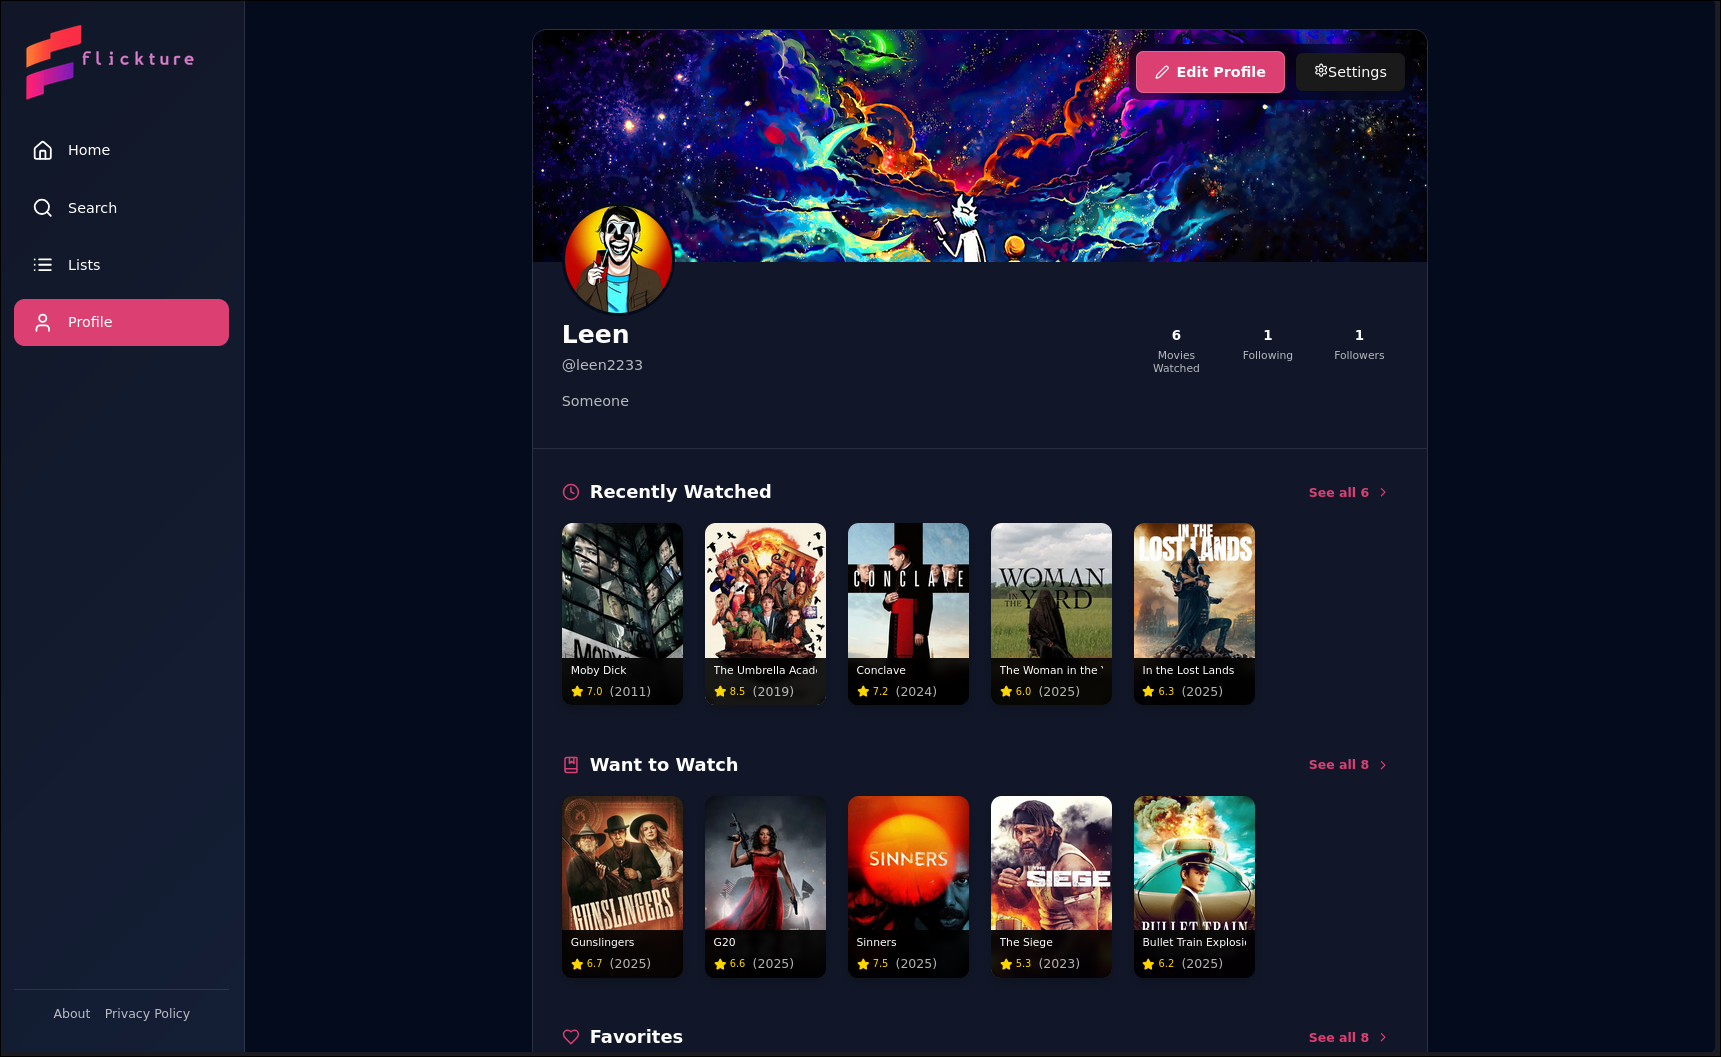
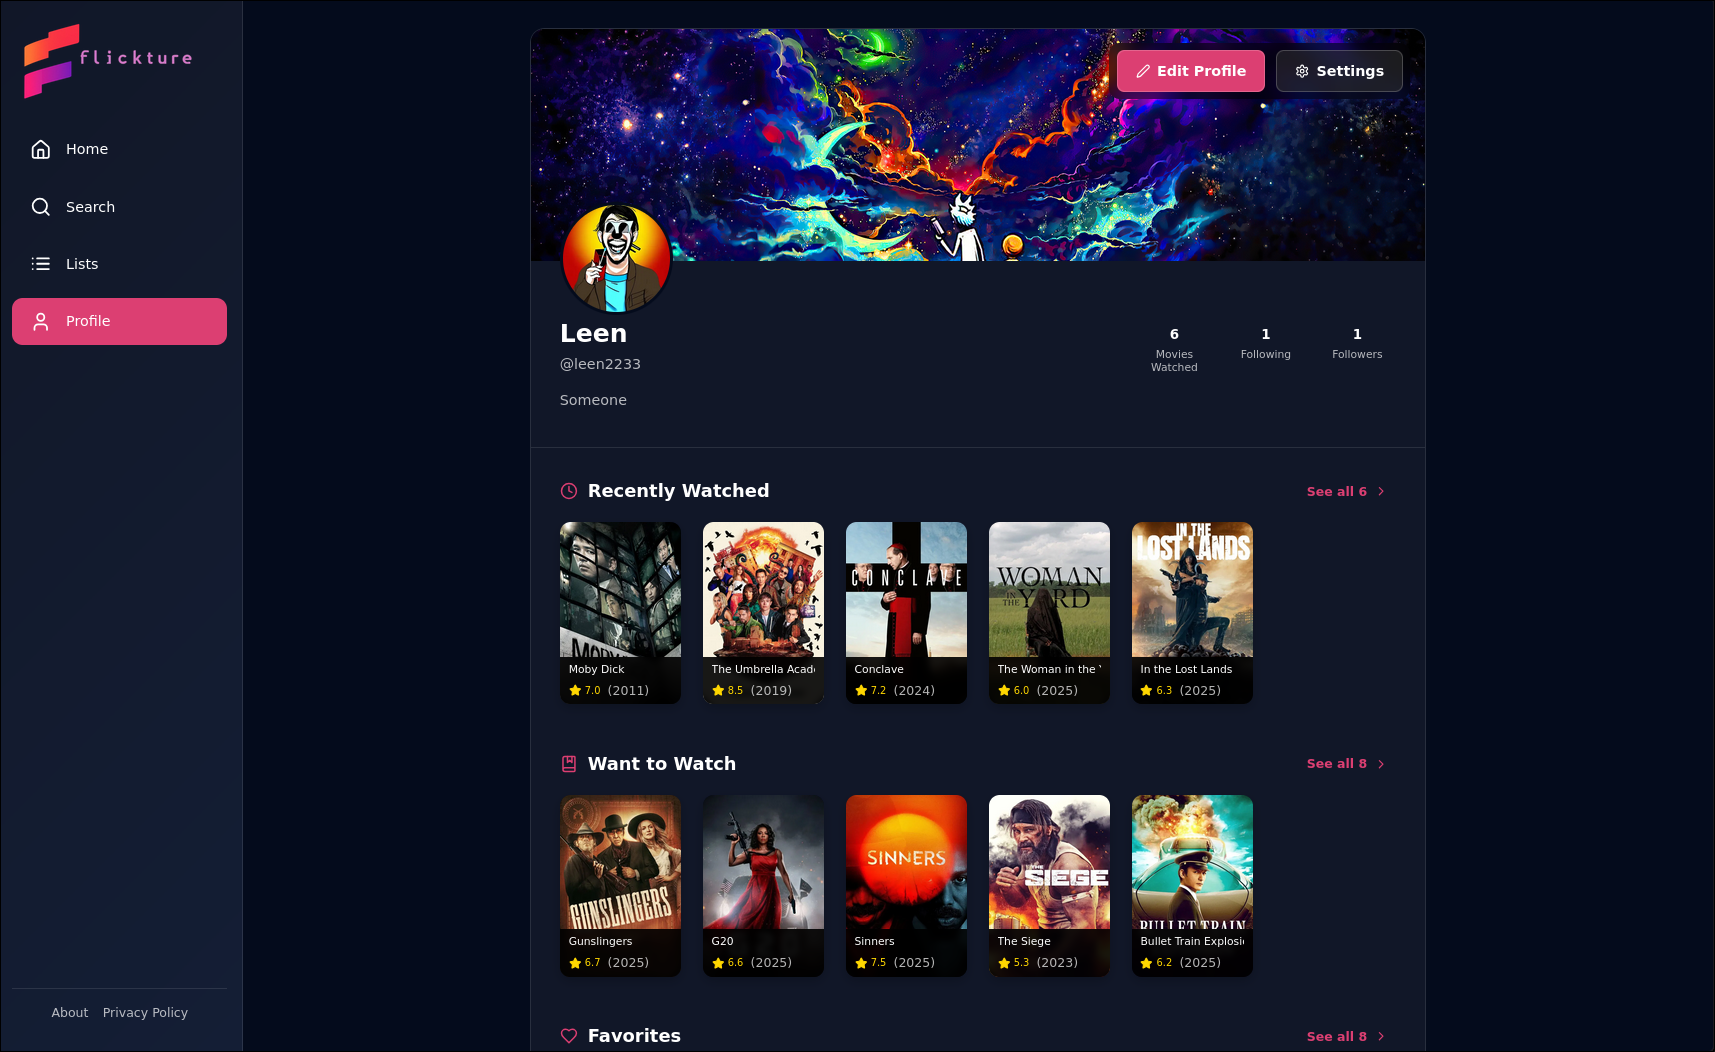
feat: update button styles and rename logout-button to settings-button; remove unused error-message styles

diff --git a/src/utils/axios.js b/src/utils/axios.js
@@ -93,44 +93,6 @@ axiosClient.interceptors.response.use(
       pendingRequests.delete(error.config.__requestKey);
     }
 
-    // Show error notification
-    let errorMessage = "An error occurred. Please try again.";
-    if (error.response) {
-      console.log(error.response.status);
-      if (error.response.status === 404) {
-        errorMessage = "Requested content couldn't found";
-      } else if (error.response.status === 500) {
-        errorMessage = "Internal Server Error";
-      } else if (error.response.data?.detail) {
-        errorMessage = error.response.data.detail;
-      } else if (error.response.data?.message) {
-        errorMessage = error.response.data.message;
-      } else if (typeof error.response.data === "string") {
-        errorMessage = error.response.data;
-      }
-    } else if (error.code === "ECONNABORTED" || error.code === "ETIMEDOUT") {
-      errorMessage = "Request timed out. Please try again.";
-    } else if (!error.response) {
-      errorMessage = "Network error. Please check your connection.";
-    }
-
-    toast.error(errorMessage, {
-      position: "top-right",
-      autoClose: 5000,
-      hideProgressBar: false,
-      closeOnClick: true,
-      pauseOnHover: true,
-      draggable: true,
-      progress: undefined,
-      theme: "dark", // Assuming dark theme, adjust if needed
-      style: {
-        background: "#1a1a1a",
-        color: "#fff",
-        borderRadius: "8px",
-        boxShadow: "0 4px 6px rgba(0, 0, 0, 0.1)",
-      },
-    });
-
     const originalRequest = error.config;
 
     // If we shouldn't retry or we've run out of retries, reject the promise

diff --git a/src/App.css b/src/App.css
@@ -2301,7 +2301,7 @@ input.error {
 }
 
 .edit-profile,
-.logout-button {
+.settings-button {
   display: flex;
   align-items: center;
   gap: 0.5rem;
@@ -2320,7 +2320,7 @@ input.error {
   border: 1px solid rgba(255, 255, 255, 0.2);
 }
 
-.logout-button {
+.settings-button {
   background: rgba(255, 255, 255, 0.1);
   border: 1px solid rgba(255, 255, 255, 0.2);
 }
@@ -2330,7 +2330,7 @@ input.error {
   box-shadow: 0 4px 12px rgba(220, 63, 114, 0.3);
 }
 
-.logout-button:hover {
+.settings-button:hover {
   background: rgba(255, 255, 255, 0.2);
   transform: translateY(-1px);
 }

diff --git a/src/styles/CastDetails.css b/src/styles/CastDetails.css
@@ -117,15 +117,6 @@
   }
 }
 
-.error-message {
-  display: flex;
-  align-items: center;
-  justify-content: center;
-  min-height: 100vh;
-  color: var(--text-error);
-  font-size: 1.1rem;
-}
-
 /* Mobile Responsive */
 @media (max-width: 768px) {
   .page-header {
